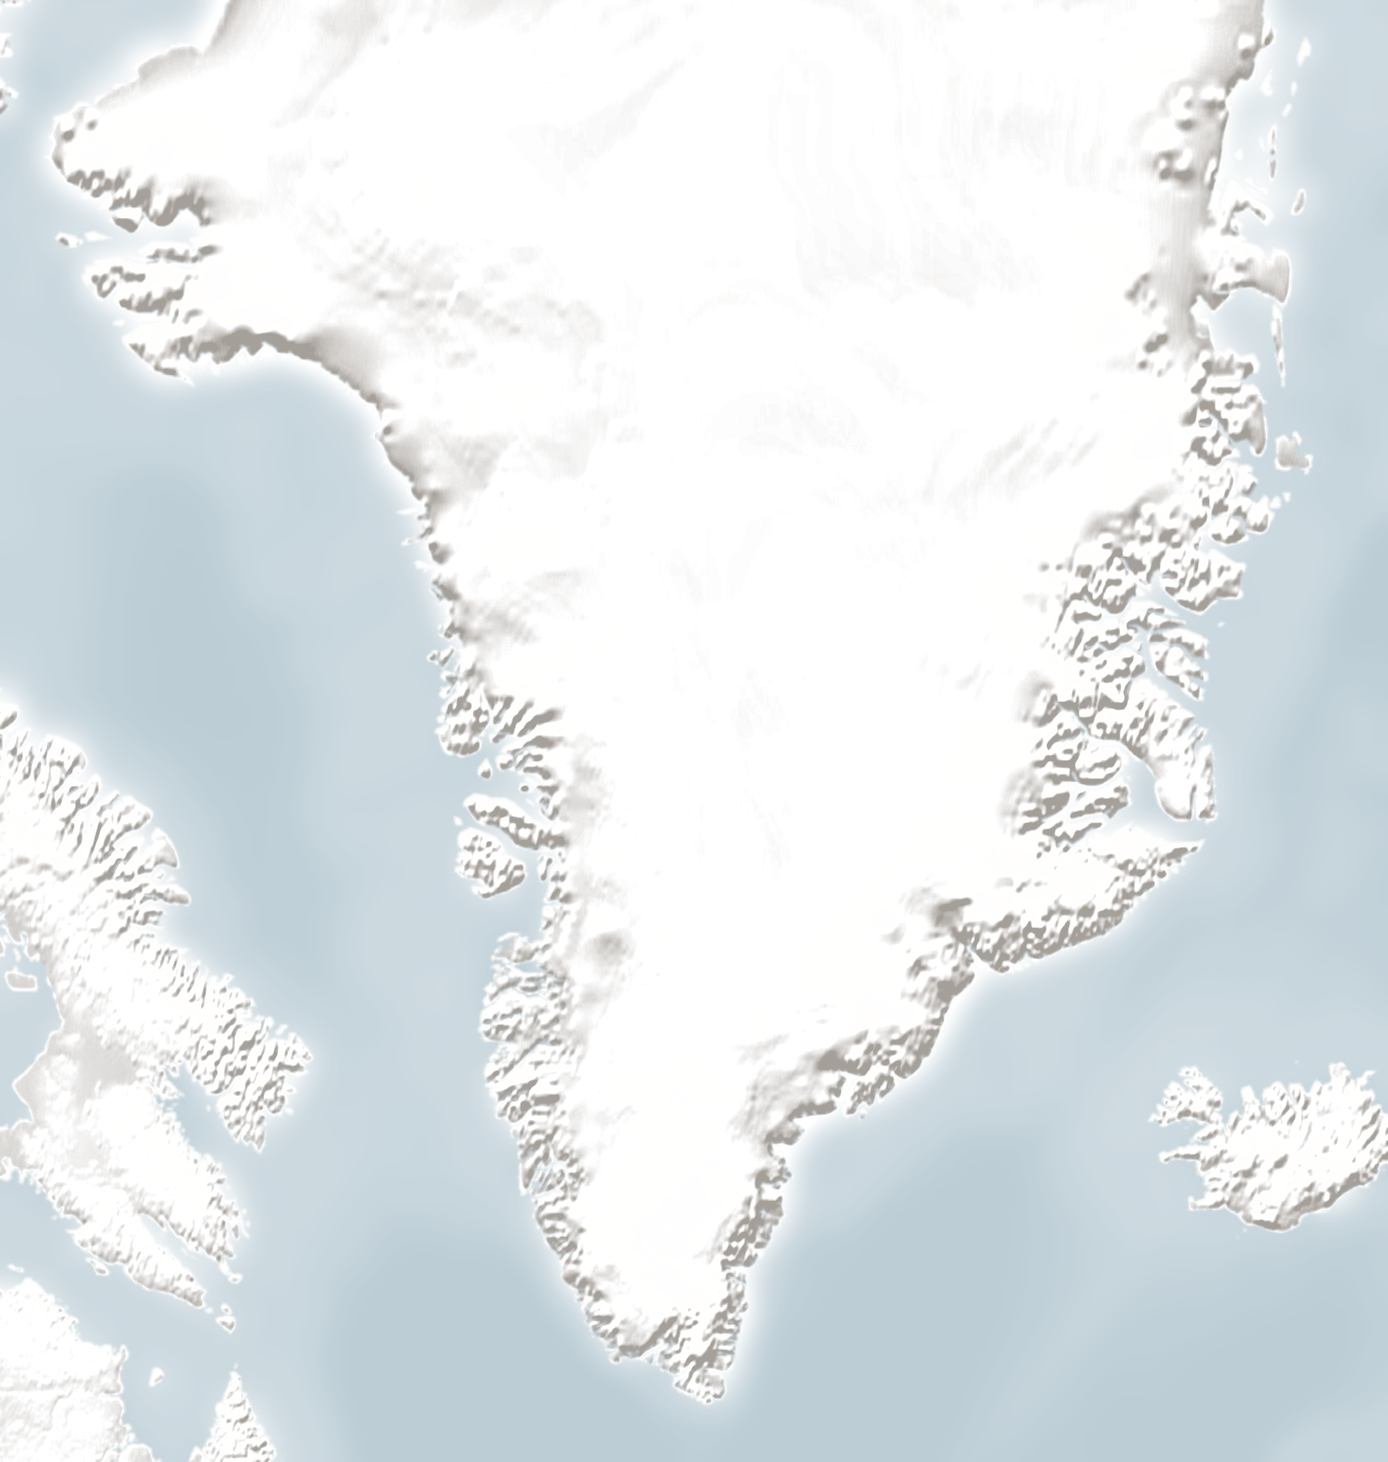
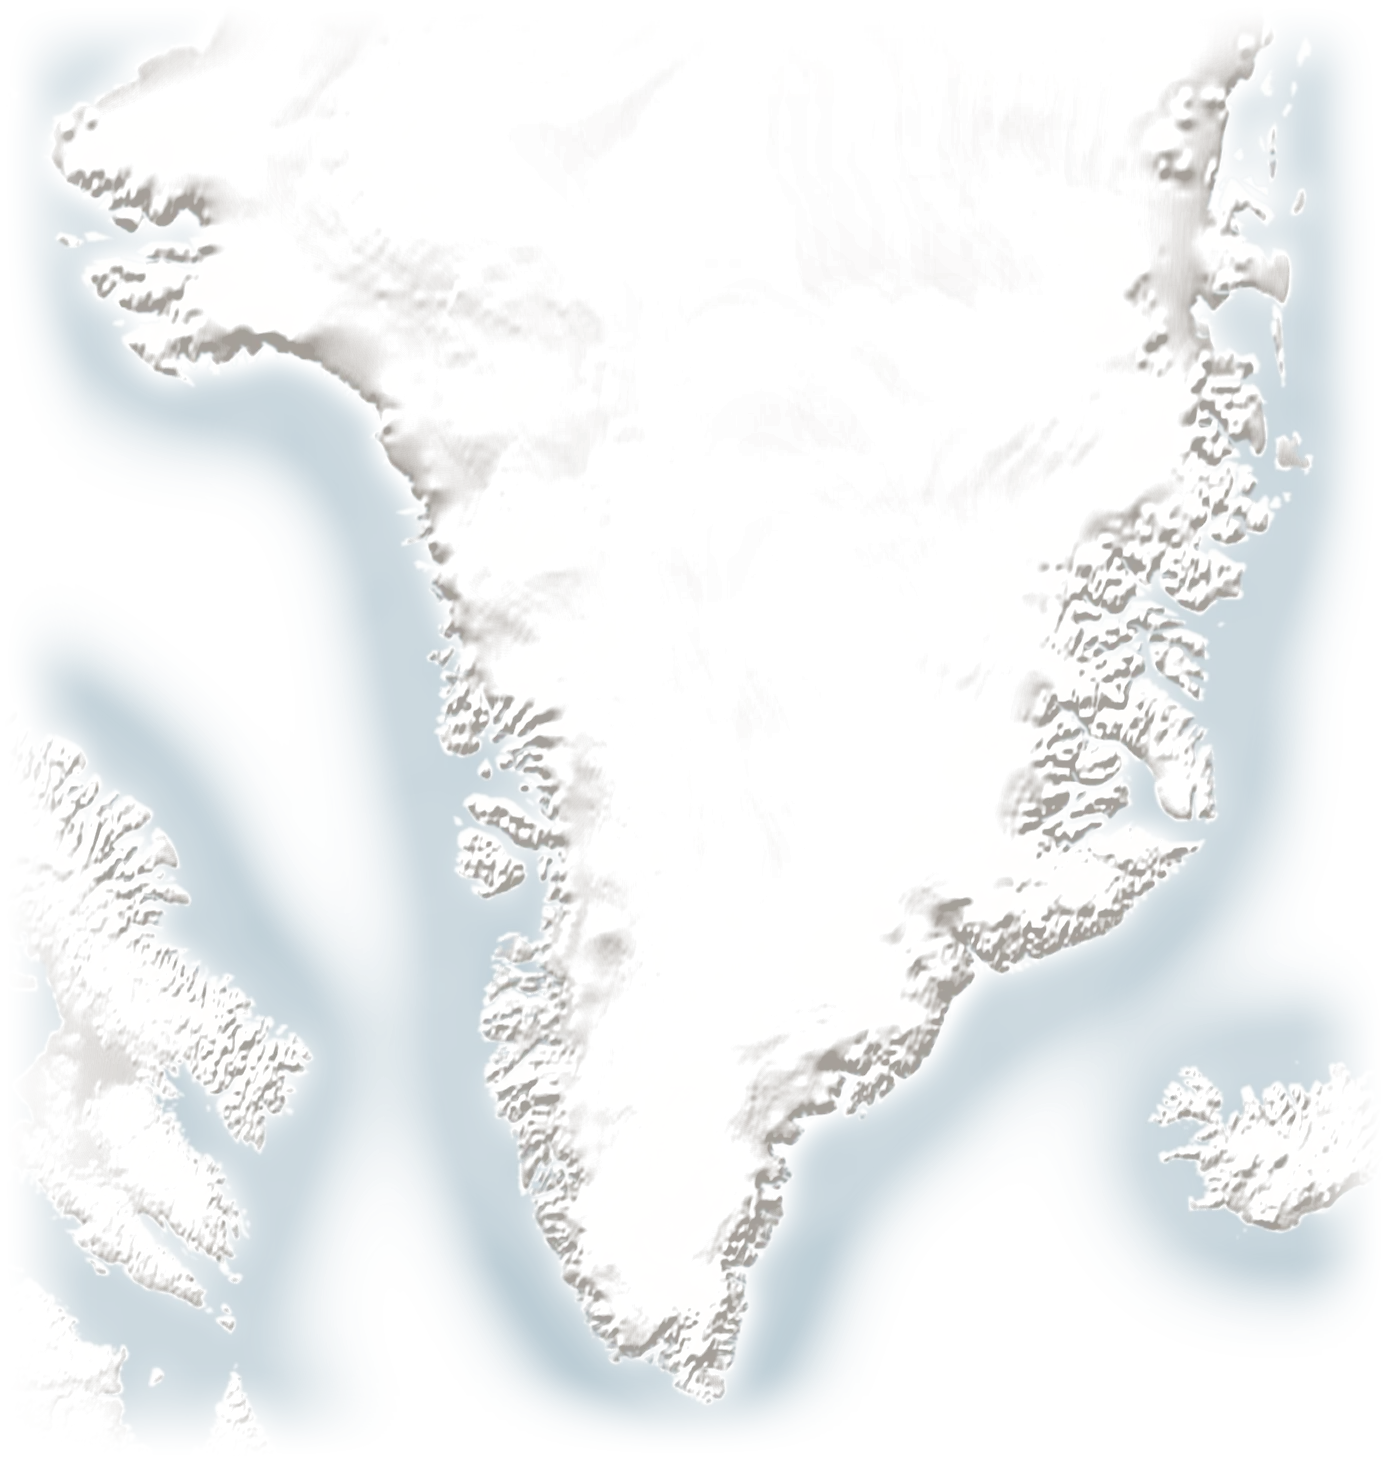
Relief: keep the sea tint near the coast and feather the edges
The relief images stopped at each destination's bbox, so on wide maps and
on the zoomed-out Region steps the open-sea tint showed as a rectangle.
maps/tools/feather_relief.py keeps the depth tint on the shelf near land,
fades it over open water, and feathers every edge, so no data frame shows.
Applied to all 20 destinations; meta.json records it, and the script
skips images it has already done.

Claude-Session: https://claude.ai/code/session_01GNvbYCubqH83PyJorf8YSM

Changed region(s): [[0.062, 0.0, 1.0, 1.0], [0.0, 0.0, 0.3098, 0.7079], [0.0, 0.5848, 0.062, 0.8926]]

diff --git a/maps/tools/feather_relief.py b/maps/tools/feather_relief.py
@@ -1,0 +1,60 @@
+#!/usr/bin/env python3
+"""Soften the edges of each destination's relief image so its data frame never shows as a box.
+
+The relief (land shading and sea depth tint) stops at the destination's bbox. On wide maps and on the
+zoomed-out Region steps the map shows past that edge, and the open-sea tint read as a big rectangle.
+Two passes fix it:
+- coast: the sea tint is kept near land (the shelf and slope, where depth reads) and fades out over
+  open water, so there is no tinted panel to see;
+- edges: alpha fades to nothing over the outer band of each edge (smoothstep), so land shading and any
+  remaining tint melt into the plain hatched sea and world land beyond.
+
+Safe to run again: meta.json records "feathered" and a feathered image is skipped. A rebuilt relief
+(tools/build_destination.py) comes out unfeathered, so run this after every rebuild.
+Usage, from the repo root:  python3 maps/tools/feather_relief.py [slug ...]   (no slug = every destination)
+"""
+import json, os, sys
+import numpy as np
+from PIL import Image, ImageFilter
+
+HERE = os.path.dirname(os.path.abspath(__file__))
+DATA = os.path.join(HERE, "..", "data")
+BAND = 0.07   # fraction of the shorter side faded on each edge
+COAST = 0.05  # how far the sea tint reaches from land, as a fraction of the shorter side
+SEA = np.array([31, 86, 115], dtype=np.float32)   # the relief's sea colour (build_destination.py)
+
+
+def feather(slug):
+    d = os.path.join(DATA, slug)
+    img_p, meta_p = os.path.join(d, "relief.webp"), os.path.join(d, "meta.json")
+    if not (os.path.exists(img_p) and os.path.exists(meta_p)):
+        return "skip (no relief)"
+    meta = json.load(open(meta_p))
+    if meta.get("relief", {}).get("feathered"):
+        return "skip (already feathered)"
+    im = Image.open(img_p).convert("RGBA")
+    a = np.asarray(im, dtype=np.float32)
+    H, W = a.shape[:2]
+    f = max(18.0, BAND * min(W, H))
+    x = np.minimum(np.arange(W) + .5, W - np.arange(W) - .5) / f
+    y = np.minimum(np.arange(H) + .5, H - np.arange(H) - .5) / f
+    s = lambda t: (lambda c: c * c * (3 - 2 * c))(np.clip(t, 0, 1))
+    ramp = np.outer(s(y), s(x))
+    sea = (np.abs(a[..., :3] - SEA).sum(-1) < 12).astype(np.float32)
+    land = Image.fromarray(((1 - sea) * 255).astype(np.uint8))
+    r = max(6.0, COAST * min(W, H))
+    near = np.asarray(land.filter(ImageFilter.GaussianBlur(r)), dtype=np.float32) / 255
+    near = s(near * 4)                       # 1 at the coast, easing to 0 a few radii offshore
+    a[..., 3] *= (1 - sea) + sea * near
+    a[..., 3] *= ramp
+    before = os.path.getsize(img_p)
+    Image.fromarray(np.clip(a, 0, 255).astype(np.uint8), "RGBA").save(img_p, "WEBP", quality=88, method=4)
+    meta.setdefault("relief", {})["feathered"] = {"edge": BAND, "coast": COAST}
+    json.dump(meta, open(meta_p, "w"), indent=1, ensure_ascii=False)
+    return f"feathered {W}x{H}, band {int(f)} px, {before // 1024} -> {os.path.getsize(img_p) // 1024} KB"
+
+
+if __name__ == "__main__":
+    slugs = sys.argv[1:] or sorted(x for x in os.listdir(DATA) if os.path.isdir(os.path.join(DATA, x)))
+    for s in slugs:
+        print(s, feather(s))
